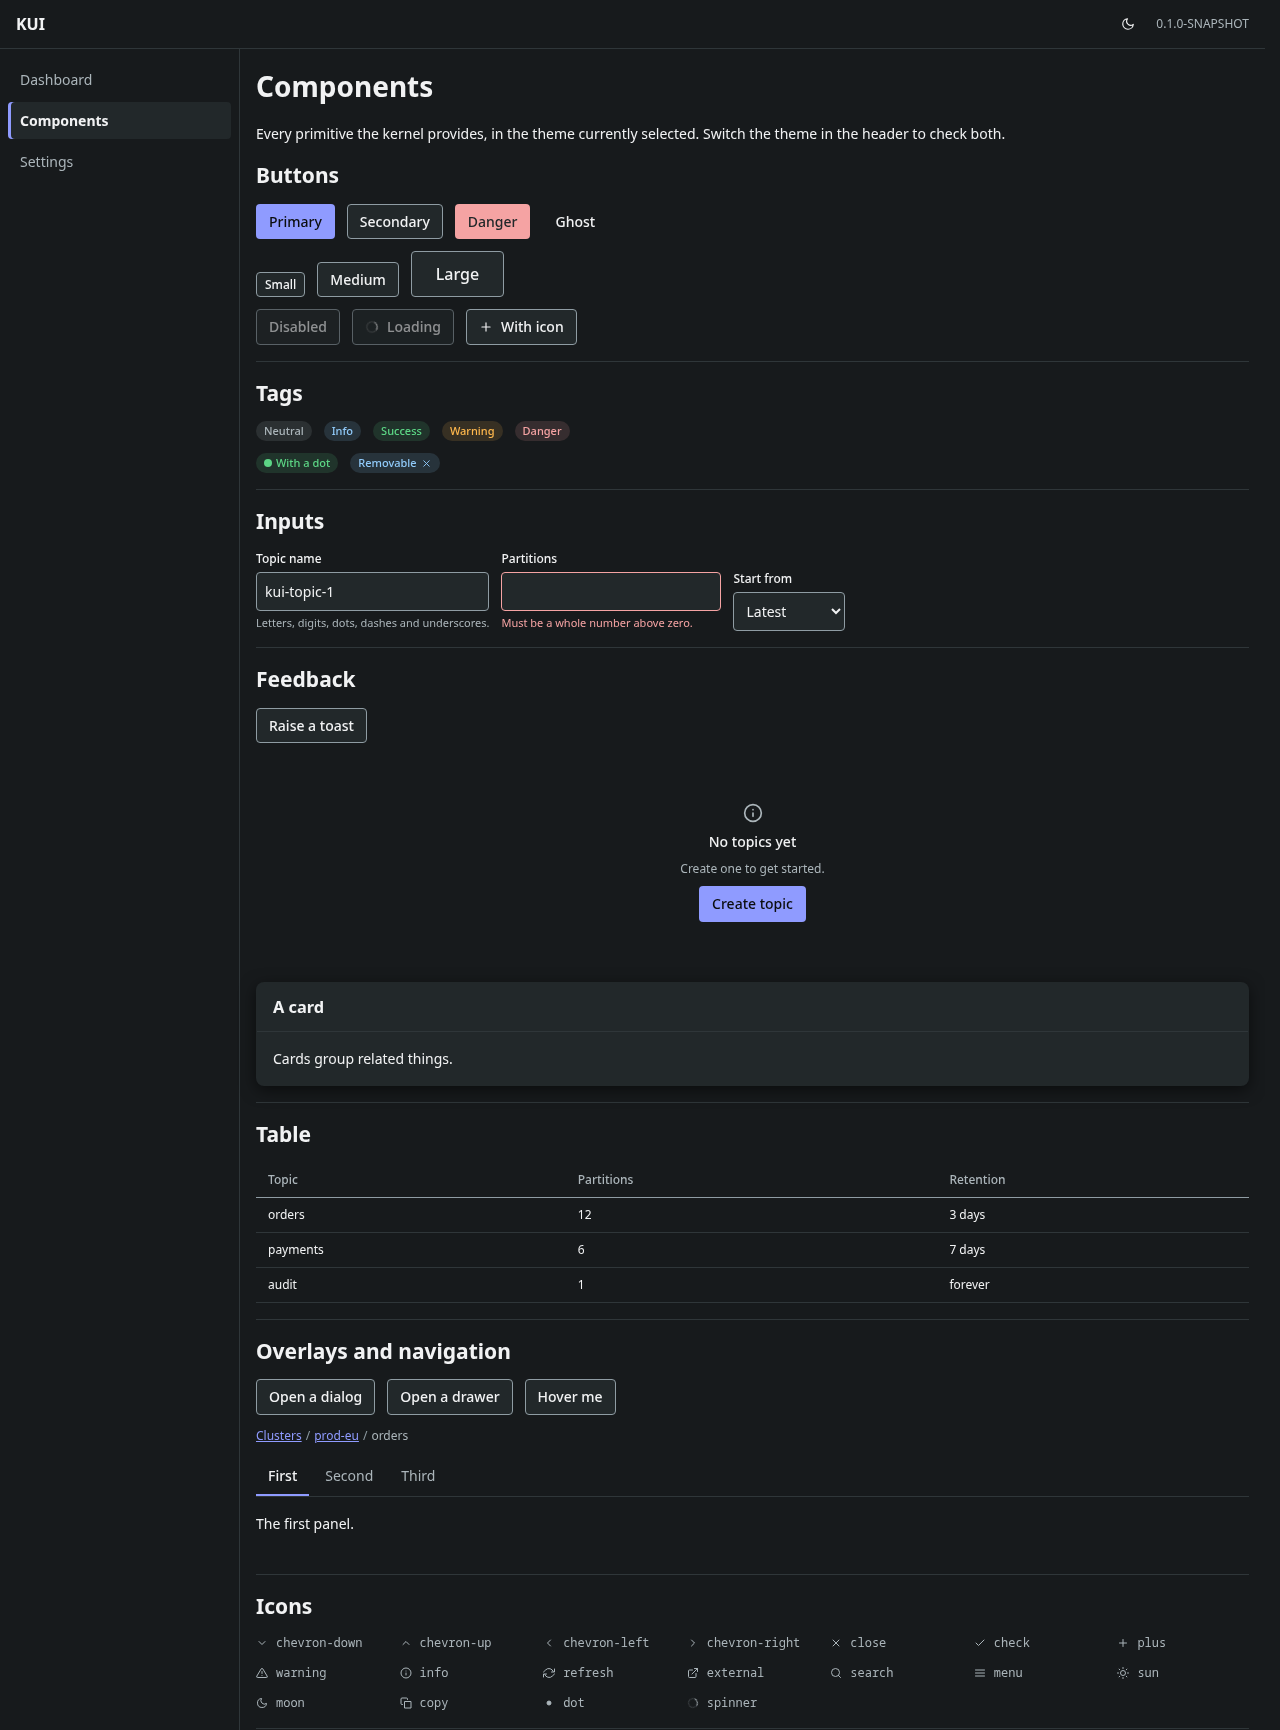
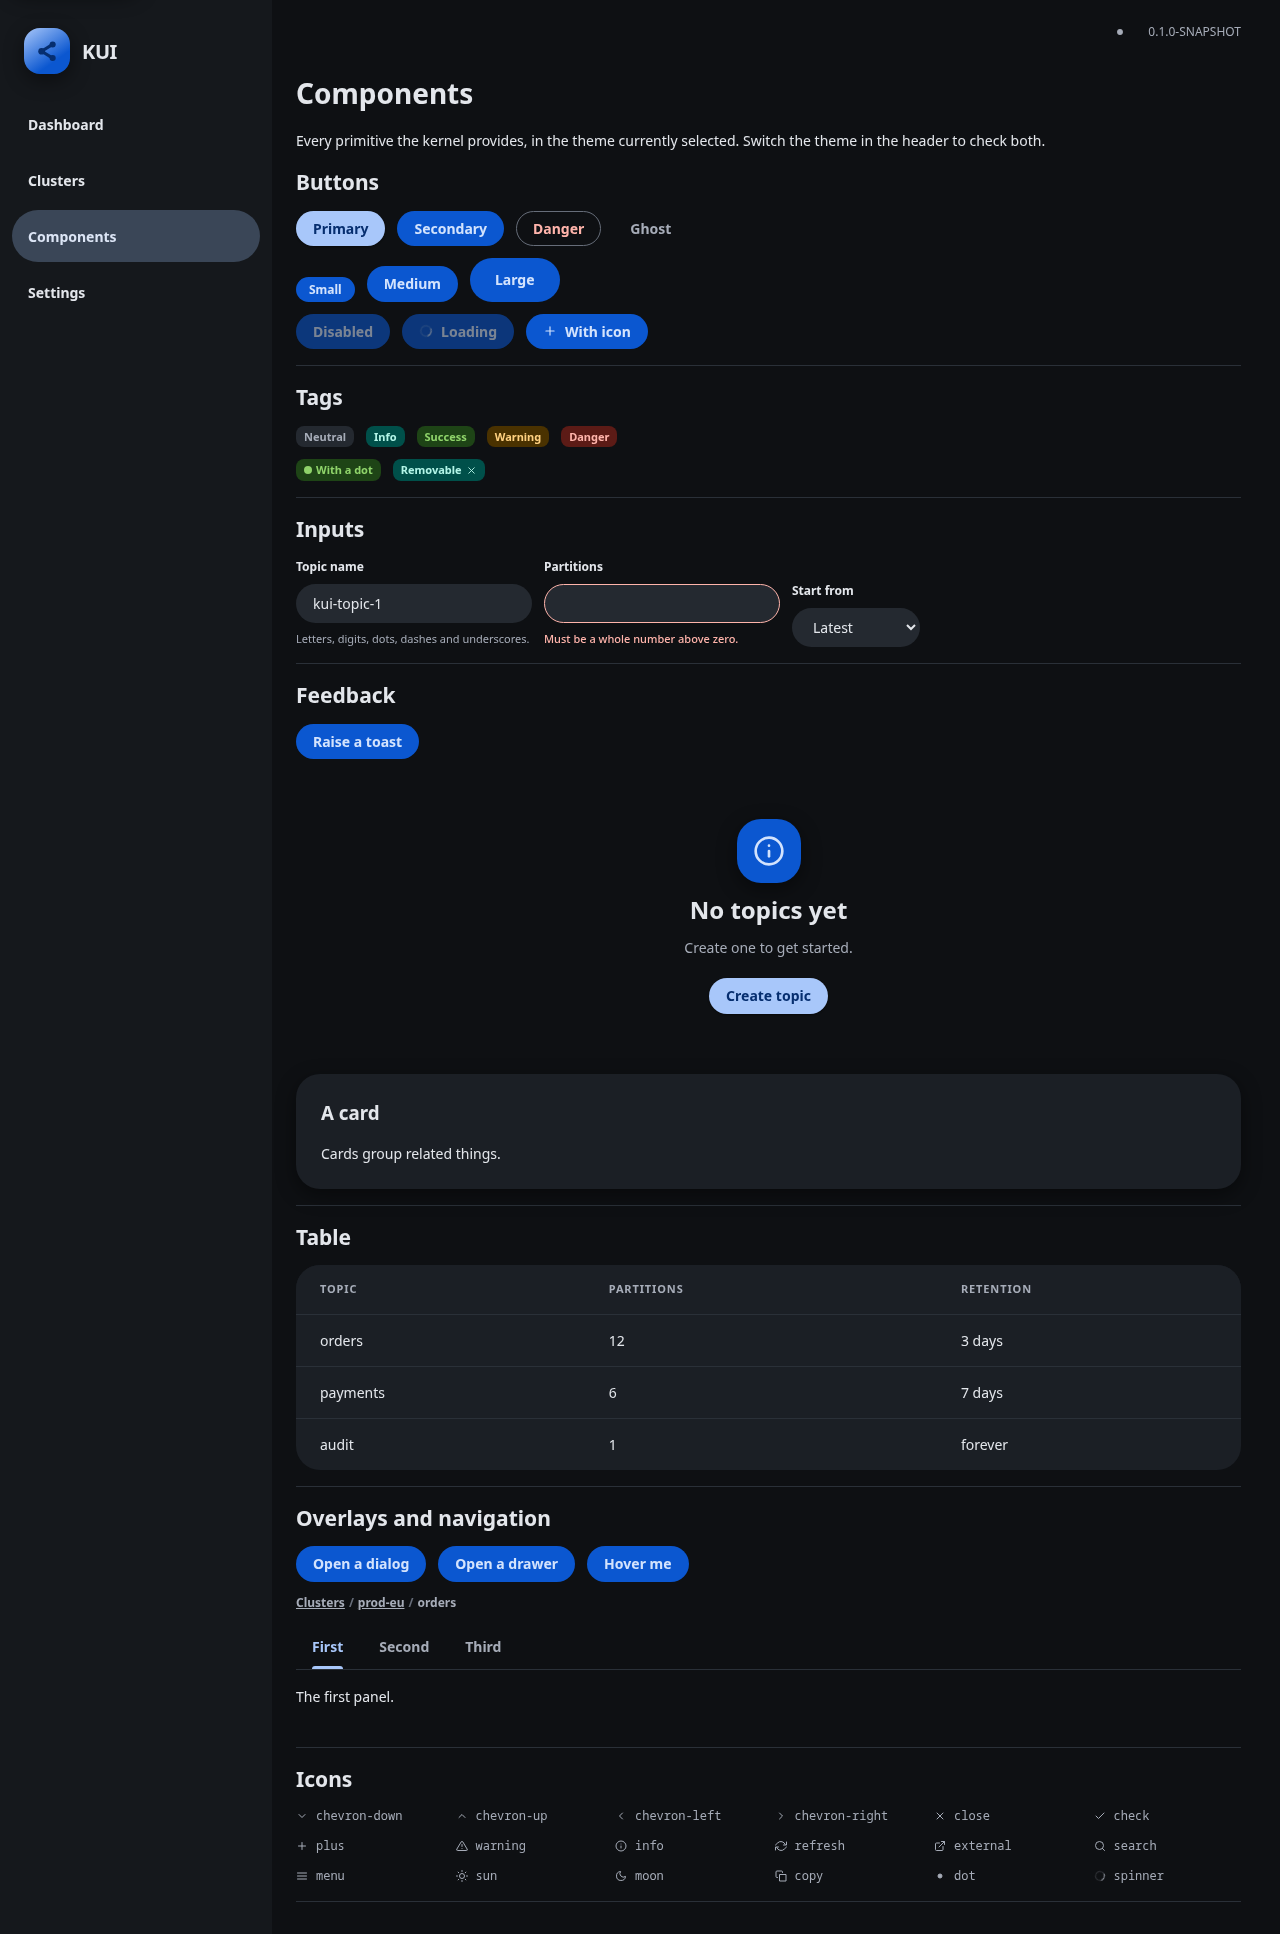
fix(ui-kernel): upper-case a sortable table header like an unsortable one
The table header rule sets `text-transform: uppercase`, but a sortable
column puts its label inside a `<button>` (`.kui-table__sort`), and every
browser's own default stylesheet contains `button { text-transform: none }`.
A declaration in the browser's stylesheet beats inheritance -- an inherited
value is only used where nothing at all is declared -- so the button threw
the upper-casing away.

The visible result, before this change: in the component gallery's table the
"Retention" column (not sortable) rendered as RETENTION while "Topic" and
"Partitions" (both sortable) stayed in their original case. One table header,
two typographic styles.

`.kui-table__sort` already re-inherits `color`, `font` and `letter-spacing`
for exactly this reason; `text-transform` was the one that was missed.

The gallery screenshots are regenerated from the running shell in both
themes, so they now show the restyled surface rather than the pre-restyle
one.

diff --git a/frontend/ui-kernel/resources/css/22-kernel-table.css b/frontend/ui-kernel/resources/css/22-kernel-table.css
@@ -76,6 +76,11 @@
   color: inherit;
   font: inherit;
   letter-spacing: inherit;
+  /* The browser's own stylesheet sets `text-transform: none` on `button`, and a rule in the
+   * browser's stylesheet beats inheritance — inheritance only fills in where nothing is declared.
+   * Without this line a sortable column's label stayed in its original case while an unsortable
+   * one next to it was upper-cased, so one table header had two typographic styles in it. */
+  text-transform: inherit;
   cursor: pointer;
 }
 
